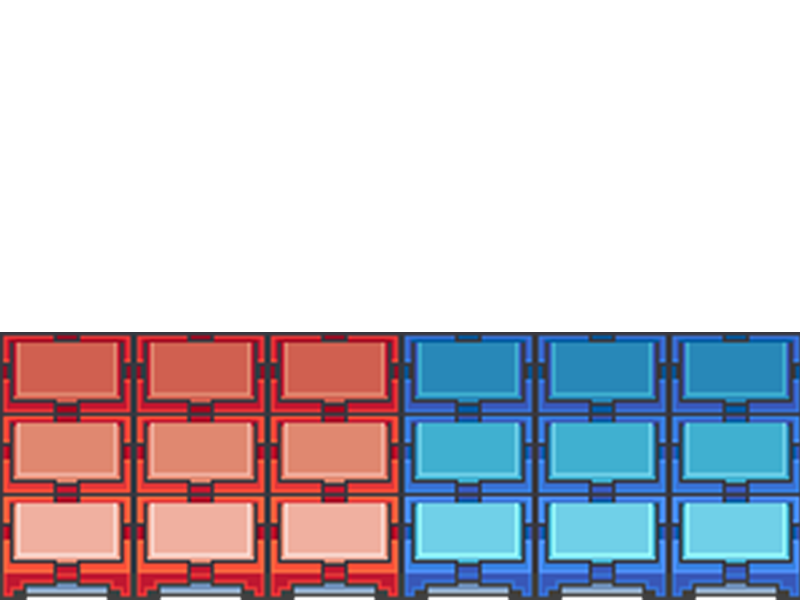
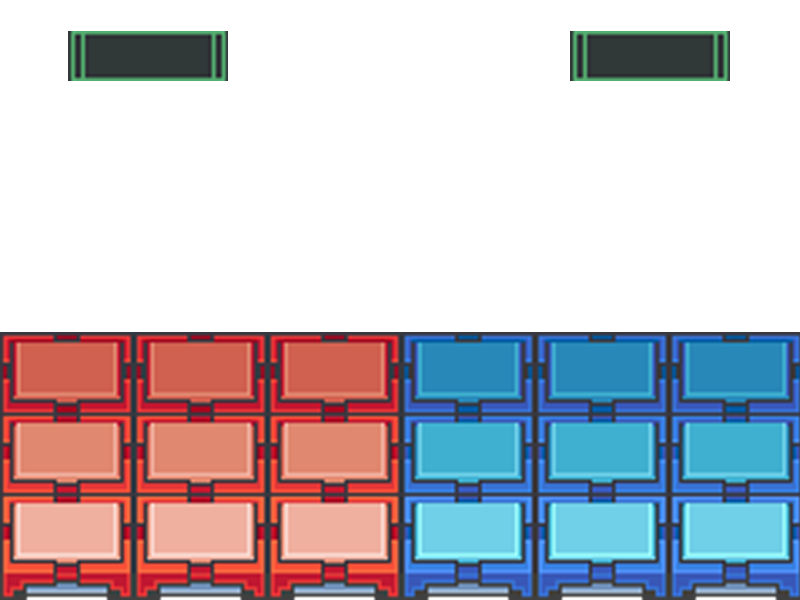
HP Counter
Image for HP

Changed region(s): [[0.0625, 0.03, 0.3125, 0.15], [0.6875, 0.03, 0.9375, 0.15]]

diff --git a/src/GameplayState.java b/src/GameplayState.java
@@ -66,19 +66,15 @@ public class GameplayState extends BasicGameState {
 					switch(dir) {
 						case "LEFT":
 							navi[temp].setX(navi[temp].getX() - 1);
-							navi[temp].setPosX(navi[temp].getPosX() - 130);
 							break;
 						case "RIGHT":
 							navi[temp].setX(navi[temp].getX() + 1);
-							navi[temp].setPosX(navi[temp].getPosX() + 130);
 							break;
 						case "UP":
 							navi[temp].setY(navi[temp].getY() - 1);
-							navi[temp].setPosY(navi[temp].getPosY() - 80);
 							break;
 						case "DOWN":
 							navi[temp].setY(navi[temp].getY() + 1);
-							navi[temp].setPosY(navi[temp].getPosY() + 80);
 							break;
 					}
 				} else if (msg.startsWith("CHIPSCREEN")) {
@@ -167,6 +163,7 @@ public class GameplayState extends BasicGameState {
     private SpriteSheet sprites_chips = null;			//sprites of small chips
     private SpriteSheet sprites_chipscreen = null;		//sprites of big chips
     private SpriteSheet sprites_chipCursor = null;		//sprites for blinking cursor
+    private SpriteSheet sprites_digits = null;			//sprites for blinking cursor
     private Image getFromSpriteSheet = null;			//temporary holder of images from sprites
     
     //animations
@@ -188,7 +185,8 @@ public class GameplayState extends BasicGameState {
 
     	Socket socket;
 		try {
-			socket = new Socket("127.0.0.1", 8888);
+			BattleNetworkGame bng = (BattleNetworkGame) sb;
+			socket = new Socket(bng.ip, Integer.parseInt(bng.port));
 			rcv = new rcvthread(socket, navi);
 			conn = new MyConnection(socket);				//for this thread
 			rcv.start();
@@ -207,7 +205,7 @@ public class GameplayState extends BasicGameState {
     	field = new Image("images/field.png");
     	megaman = new Image("images/megasprite.png");
     	numberman = new Image("images/numsprite.png");
-    	custbar = new Image("images/custombar.png");  
+    	//custbar = new Image("images/custombar.png");  
     	waitingScrn = new Image("images/waitingscrn.png");
     	endingScrn = new Image("images/gameover.png");
     	
@@ -215,6 +213,7 @@ public class GameplayState extends BasicGameState {
     	sprites_chips = new SpriteSheet("images/sprites_chips.png", 34, 34);
     	sprites_chipscreen = new SpriteSheet("images/sprites_chipscreen.png", 164, 224);
     	sprites_chipCursor = new SpriteSheet("images/sprites_chipSelectCursor.png", 48, 48);
+    	sprites_digits = new SpriteSheet("images/sprites_digits.png", 23, 38);
     	
     	//animations
     	animChipCursor = new Animation();
@@ -238,27 +237,44 @@ public class GameplayState extends BasicGameState {
     	//basic things
     	background.draw();
     	field.draw();
-    	custbar.draw();
+    	//custbar.draw();
     	
     	//navis
-    	megaman.draw(navi[0].posX, navi[0].posY);
-    	numberman.draw(navi[1].posX, navi[1].posY);
+    	megaman.draw(navi[0].getPosX(), navi[0].getPosY());
+    	numberman.draw(navi[1].getPosX(), navi[1].getPosY());
     	
-    	//hp levels
-    	g.drawString("" + navi[0].hp, navi[0].posX, navi[0].posY + 50);
-    	g.drawString("" + navi[1].hp, navi[1].posX, navi[1].posY + 50);
+    	//Print HP LEVELS
+    	int hp1 = navi[0].getHP();
+    	int hp2 = navi[1].getHP();
+    	int looper = 179;
+    	
+    	while (hp1 > 0) {
+    		(sprites_digits.getSprite(hp1%10, 0)).draw(looper, 37);
+    		looper -= 23;
+    		hp1 /= 10;
+    	}
+    	
+    	looper = 684;
+    	while (hp2 > 0) {
+    		(sprites_digits.getSprite(hp2%10, 0)).draw(looper, 37);
+    		looper -= 23;
+    		hp2 /= 10;
+    	}
+    	
+    	g.drawString(navi[0].getX() + " " + navi[0].getY() + " " + navi[0].getHP(), navi[0].getPosX(), navi[0].getPosY() + 50);
+    	g.drawString(navi[1].getX() + " " + navi[1].getY() + " " + navi[1].getHP(), navi[1].getPosX(), navi[1].getPosY() + 50);
     	
     	//draw and display chips in register
     	for (int i = 2, space = 0; i >= 0; i--, space += 10) {
     		if (chipSelected[i] != null) {
     			if (chipSelected[i].isEmpty && !chipSelected[i].isUsed) {
     				getFromSpriteSheet = sprites_chips.getSprite(0, chipSelected[i].getChipType());
-    	  			getFromSpriteSheet.draw(navi[playID].posX + space, navi[playID].posY - 40);
+    	  			getFromSpriteSheet.draw(navi[playID].getPosX() + space, navi[playID].getPosY() - 40);
     			}
     		}
     	}
     	
-    	//attacks
+    	//animation attacks
     	
     	//during chip selection state
     	if (chipSelectView) { 		
@@ -432,7 +448,7 @@ public class GameplayState extends BasicGameState {
 	   	} else if (input.isKeyPressed(Input.KEY_G)) {
 	   		//fire bullet
 	   		if (navi[playID].y == navi[1-playID].y) {
-	   			conn.sendMessage("FIRE " + playID + " " + 1); 
+	   			rcv.conn.sendMessage("FIRE " + playID + " " + 1); 
 	   		}
 	   	} else if (input.isKeyPressed(Input.KEY_SPACE)){
 	   		//launch chip (examine chip type, then send corresponding action)
@@ -471,7 +487,7 @@ public class GameplayState extends BasicGameState {
 	   					
 	   					chipSelected[i].isUsed = true;
 	   					if (msg != "")
-	   						conn.sendMessage(msg);
+	   						rcv.conn.sendMessage(msg);
 	   					break;
 	   				}
 	   			}
@@ -481,7 +497,7 @@ public class GameplayState extends BasicGameState {
 	   	
 	   	//send message for movements
 	   	if (direction != "")
-	   		conn.sendMessage("MOVE " + playID + " " + direction);
+	   		rcv.conn.sendMessage("MOVE " + playID + " " + direction);
 	   	
 	   	
     }
@@ -528,7 +544,7 @@ public class GameplayState extends BasicGameState {
     		if (chipScrnPtr == 5) {    								//exit selection screen
     			chipSelectView = false;
     			waitScreen = true;
-    			conn.sendMessage("READYCHIP " + rcv.id);
+    			rcv.conn.sendMessage("READYCHIP " + rcv.id);
     			
     		} else if (!chipAvailable[chipScrnPtr].isEmpty) {		//choose chip
 	    		for (int i = 0; i < 3; i++) {
@@ -581,6 +597,10 @@ public class GameplayState extends BasicGameState {
 ***************************************************************
             ERRORS LOG (To Fix) / TO DO LIST
 ***************************************************************
+
+WIDE SWORD
+--> Ay sword palang
+
 TIMER TASK
 --> palitan natin yung loop function into a thread function
 --> at saka dapat magpause din whenever chip selection screen

diff --git a/src/IntroState.java b/src/IntroState.java
@@ -3,6 +3,7 @@ import org.newdawn.slick.Graphics;
 import org.newdawn.slick.Image;
 import org.newdawn.slick.Input;
 import org.newdawn.slick.SlickException;
+import org.newdawn.slick.gui.TextField;
 import org.newdawn.slick.state.BasicGameState;
 import org.newdawn.slick.state.StateBasedGame;
 
@@ -10,6 +11,7 @@ public class IntroState extends BasicGameState {
 
 	int stateID = -1;
 	Image background = null;
+	TextField porttxt, iptxt;
 	
 	boolean ready = false;
 	
@@ -25,6 +27,8 @@ public class IntroState extends BasicGameState {
 		
 		//basic images
 		background = new Image("images/back.png");
+		iptxt = new TextField(gc, gc.getDefaultFont(), 325, 350, 200, 30);
+		porttxt = new TextField(gc, gc.getDefaultFont(), 325, 350, 400, 30);
 	}
 
 	@Override
@@ -32,6 +36,8 @@ public class IntroState extends BasicGameState {
 		
 		background.draw();
 		g.drawString("Press Enter to begin game!", 350, 300);
+		iptxt.render(gc, g);
+		porttxt.render(gc, g);
 	}
 
 	@Override
@@ -40,6 +46,9 @@ public class IntroState extends BasicGameState {
 		Input input = gc.getInput();
 		
 		if (input.isKeyPressed(Input.KEY_ENTER)) {
+			BattleNetworkGame game = (BattleNetworkGame) sb;
+			game.ip = iptxt.getText();
+			game.port = porttxt.getText();
 			sb.enterState(BattleNetworkGame.GAMEPLAYSTATE);
 		}
 	}

diff --git a/src/Navi.java b/src/Navi.java
@@ -4,7 +4,7 @@ public class Navi {
 
 	int tag;									//0 or 1 (player type)
 	int x, y;									//grid coordinate of Navi
-	float posX, posY;							//pixel coordinates of Navi
+	int adjust = 0;								//for player 2 Navi adjustment
 	int hp;										//hp of navi
 	
 	//with regards to chips
@@ -20,15 +20,11 @@ public class Navi {
 		y = 1;
 		hp = 150;
 		chipsleft = 30;
-		
 		this.tag = tag;							//indicate player type
 		
-		if (tag == 0)							//Player 1 starting x-coordinate
-			posX = 170;
-		else if (tag == 1)
-			posX = 570;							//Player 2 starting x-coordinate
-		
-		posY = 400;								//Both players starting y-coordinate
+		if (tag == 1)							//Player 2 adjustment
+			adjust = 400;
+			
 	}
 	
 	public void setHP (int hp) {
@@ -40,11 +36,11 @@ public class Navi {
 	}
 	
 	public float getPosX() {
-		return posX;
+		return 40 + (this.x * 130) + adjust;
 	}
 	
 	public float getPosY() {
-		return posY;
+		return 320 + (this.y * 80);
 	}
 	
 	public int getX() {
@@ -63,6 +59,7 @@ public class Navi {
 		this.y = (int) y;
 	}
 	
+	/*
 	public void setPosX (float posX) {
 		this.posX = posX;
 	}
@@ -70,5 +67,6 @@ public class Navi {
 	public void setPosY (float posY) {
 		this.posY = posY;
 	}
+	*/
 	
 }

diff --git a/src/MyServer.java b/src/MyServer.java
@@ -21,6 +21,11 @@ class chatthread extends Thread {
 		this.wait = false;
 	}
 	
+	public void sendMsg(String msg) {
+		Players[0].conn.sendMessage(msg);
+		Players[1].conn.sendMessage(msg);
+	}
+	
 	public void run() {
 		
 		String msg;
@@ -40,8 +45,7 @@ class chatthread extends Thread {
 		} while (!ready || !Players[1-tag].ready);
 		
 		System.out.println("Let the games begin! ");
-		Players[0].conn.sendMessage("START");
-		Players[1].conn.sendMessage("START");
+		this.sendMsg("START");
 		
 		while (true) {
 			
@@ -53,14 +57,12 @@ class chatthread extends Thread {
 					wait = true;
 				
 				if (wait && Players[1-tag].wait) {
-					Players[0].conn.sendMessage("CHIPSCREEN 1");
-					Players[1].conn.sendMessage("CHIPSCREEN 1");
+					this.sendMsg("CHIPSCREEN 1");
 					wait = false;
 					Players[1-tag].wait = false;
 				}
 			} else {
-				Players[0].conn.sendMessage(msg);
-				Players[1].conn.sendMessage(msg);
+				this.sendMsg(msg);
 			}
 		}
 	}

diff --git a/src/BattleNetworkGame.java b/src/BattleNetworkGame.java
@@ -9,6 +9,8 @@ public class BattleNetworkGame extends StateBasedGame {
 	public static final int GAMEPLAYSTATE = 1;
 	public static final int INTROSTATE = 2;
 	
+	String port, ip;
+	
 	public BattleNetworkGame() {
 		super("Battle Network");
 	}
@@ -17,13 +19,14 @@ public class BattleNetworkGame extends StateBasedGame {
 		// TODO Auto-generated method stub
 		AppGameContainer app = new AppGameContainer(new BattleNetworkGame());
 		app.setDisplayMode(800, 600, false);
-		app.setMinimumLogicUpdateInterval(100);
+		//app.setMinimumLogicUpdateInterval(100);
+		//app.setMaximumLogicUpdateInterval(100);
 		app.start();
 	}
 	
 	public void initStatesList(GameContainer gameContainer) throws SlickException {
 	
-		//this.addState(new IntroState(INTROSTATE));
+		this.addState(new IntroState(INTROSTATE));
 		this.addState(new GameplayState(GAMEPLAYSTATE));
 	}
 
